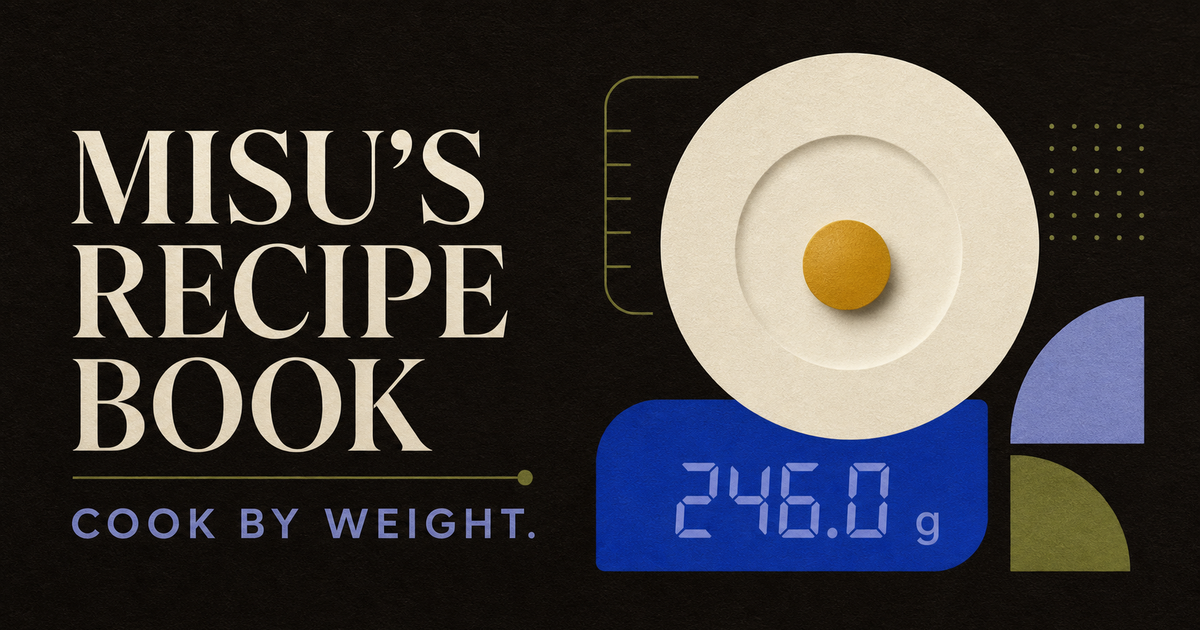
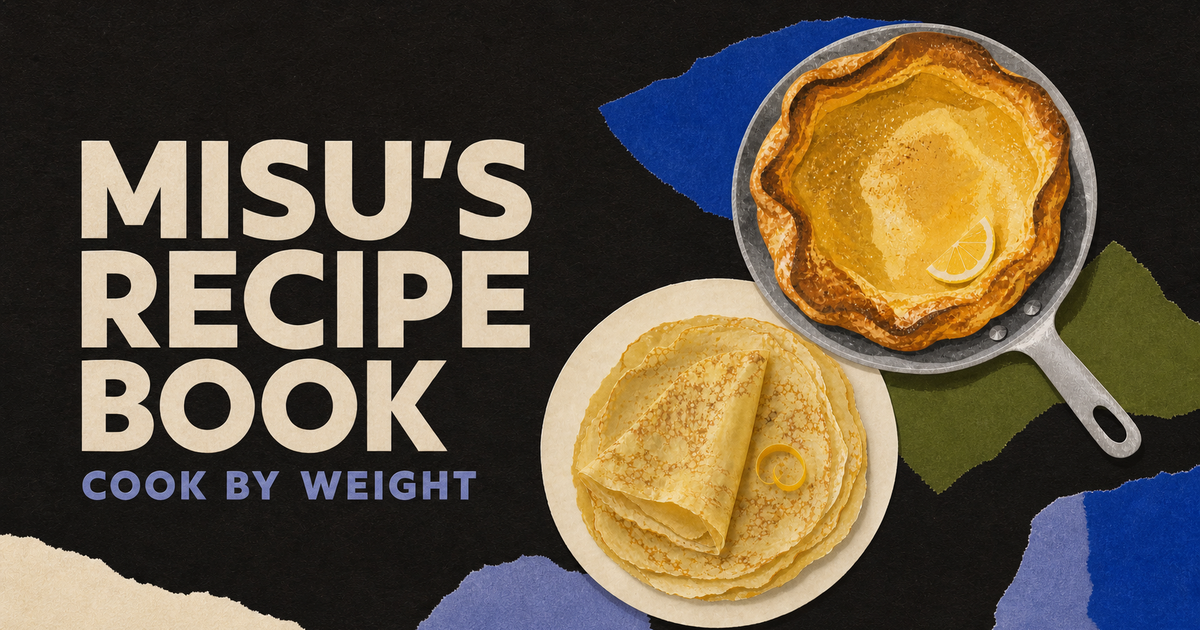
Add paper-collage recipe artwork

diff --git a/app/globals.css b/app/globals.css
@@ -271,10 +271,10 @@ input:focus-visible {
 .recipe-card {
   position: relative;
   display: grid;
-  grid-template-columns: 82px 1fr 28px;
+  grid-template-columns: 108px minmax(0, 1fr) 24px;
   gap: 16px;
   align-items: center;
-  min-height: 132px;
+  min-height: 144px;
   padding: 18px;
   overflow: hidden;
   border: 0;
@@ -295,45 +295,17 @@ input:focus-visible {
   background: var(--bone);
 }
 
-.recipe-mark {
+.recipe-card-image {
   position: relative;
-  display: grid;
-  place-items: center;
-  width: 82px;
-  height: 94px;
+  display: block;
+  width: 108px;
+  aspect-ratio: 3 / 2;
   overflow: hidden;
-  background: var(--accent-light);
-  color: var(--accent);
+  background: var(--warm-black);
 }
 
-.recipe-mark::before,
-.recipe-mark::after {
-  position: absolute;
-  content: "";
-  border: 1px solid currentColor;
-  border-radius: 50%;
-  opacity: 0.55;
-}
-
-.recipe-mark::before {
-  width: 58px;
-  height: 58px;
-}
-
-.recipe-mark::after {
-  width: 34px;
-  height: 34px;
-}
-
-.recipe-mark span {
-  position: relative;
-  z-index: 1;
-  padding: 4px;
-  background: var(--accent-light);
-  font-family: var(--font-display), var(--font-display-fallback);
-  font-size: 15px;
-  font-weight: 800;
-  letter-spacing: -0.04em;
+.recipe-card-image img {
+  object-fit: cover;
 }
 
 .tone-moss {
@@ -368,7 +340,8 @@ input:focus-visible {
   letter-spacing: 0.16em;
 }
 
-.recipe-card h2 {
+.recipe-card-title {
+  display: block;
   margin: 0;
   font-family: var(--font-display), var(--font-display-fallback);
   font-size: clamp(20px, 3vw, 27px);
@@ -448,6 +421,19 @@ input:focus-visible {
 .recipe-header .eyebrow {
   margin-bottom: 15px;
   color: var(--accent-light);
+}
+
+.recipe-hero-art {
+  position: relative;
+  width: 100%;
+  aspect-ratio: 3 / 2;
+  margin: 0;
+  overflow: hidden;
+  background: var(--warm-black-90);
+}
+
+.recipe-hero-art img {
+  object-fit: cover;
 }
 
 .recipe-meta {
@@ -733,7 +719,27 @@ input:focus-visible {
   }
 
   .recipe-card {
-    min-height: 168px;
+    grid-template-columns: 1fr;
+    grid-template-rows: auto 1fr;
+    gap: 0;
+    align-items: stretch;
+    min-height: 340px;
+    padding: 0;
+  }
+
+  .recipe-card-image {
+    width: 100%;
+  }
+
+  .recipe-card-copy {
+    display: block;
+    padding: 20px 22px 52px;
+  }
+
+  .card-arrow {
+    position: absolute;
+    right: 22px;
+    bottom: 20px;
   }
 
   .recipe-meta {
@@ -747,19 +753,16 @@ input:focus-visible {
   }
 
   .recipe-card {
-    grid-template-columns: 92px 1fr 28px;
-    min-height: 184px;
-    padding: 22px;
-  }
-
-  .recipe-mark {
-    width: 92px;
-    height: 116px;
+    min-height: 360px;
   }
 
   .recipe-header {
     grid-template-columns: minmax(0, 1.5fr) minmax(360px, 0.7fr);
     align-items: end;
+  }
+
+  .recipe-meta {
+    grid-column: 1 / -1;
   }
 
   .recipe-body {
@@ -787,6 +790,10 @@ input:focus-visible {
     align-items: end;
   }
 
+  .recipe-meta {
+    grid-column: 1 / -1;
+  }
+
   .recipe-header h1 {
     font-size: clamp(40px, 7vw, 70px);
   }
@@ -808,14 +815,13 @@ input:focus-visible {
   }
 
   .recipe-card {
-    grid-template-columns: 70px 1fr 20px;
+    grid-template-columns: 84px minmax(0, 1fr) 20px;
     gap: 13px;
     padding: 14px;
   }
 
-  .recipe-mark {
-    width: 70px;
-    height: 82px;
+  .recipe-card-image {
+    width: 84px;
   }
 
   .ingredient-row {

diff --git a/app/recipe-book.tsx b/app/recipe-book.tsx
@@ -1,5 +1,6 @@
 "use client";
 
+import Image from "next/image";
 import { useEffect, useMemo, useState } from "react";
 import {
   categories,
@@ -187,12 +188,21 @@ function RecipeDetail({
 
       <article className="recipe-shell">
         <header className="recipe-header">
-          <div>
+          <div className="recipe-title-block">
             <p className="eyebrow">
               {recipe.category} · {recipe.tags.join(" · ")}
             </p>
             <h1>{recipe.title}</h1>
           </div>
+          <figure className="recipe-hero-art">
+            <Image
+              src={`/recipes/${recipe.id}.webp`}
+              alt={`Paper-collage illustration of ${recipe.title}`}
+              fill
+              priority
+              sizes="(max-width: 979px) 100vw, 44vw"
+            />
+          </figure>
           <div className="recipe-meta">
             {metaItems(recipe).map((item) => (
               <div className="recipe-meta-item" key={item.label}>
@@ -384,14 +394,19 @@ function RecipeLibrary({ onSelect }: { onSelect: (id: string) => void }) {
                 type="button"
                 onClick={() => onSelect(recipe.id)}
               >
-                <span className="recipe-mark" aria-hidden="true">
-                  <span>{recipe.mark}</span>
+                <span className="recipe-card-image" aria-hidden="true">
+                  <Image
+                    src={`/recipes/${recipe.id}.webp`}
+                    alt=""
+                    fill
+                    sizes="(max-width: 679px) 108px, (max-width: 979px) 50vw, 33vw"
+                  />
                 </span>
-                <span>
+                <span className="recipe-card-copy">
                   <span className="recipe-index">
                     {String(index + 1).padStart(2, "0")} · {recipe.category}
                   </span>
-                  <h2>{recipe.title}</h2>
+                  <span className="recipe-card-title">{recipe.title}</span>
                   <span className="recipe-card-tags">
                     {recipe.tags.slice(0, 3).map((tag) => (
                       <span className="recipe-tag" key={tag}>

diff --git a/public/sw.js b/public/sw.js
@@ -1,4 +1,4 @@
-const CACHE_NAME = "misus-recipes-v2";
+const CACHE_NAME = "misus-recipes-v3";
 const APP_SHELL = [
   "/",
   "/manifest.webmanifest",

diff --git a/scripts/optimize-recipe-images.py b/scripts/optimize-recipe-images.py
@@ -1,0 +1,23 @@
+from pathlib import Path
+
+from PIL import Image
+
+
+ROOT = Path(__file__).resolve().parents[1]
+SOURCE = ROOT / "concepts" / "final-png"
+OUTPUT = ROOT / "public" / "recipes"
+
+OUTPUT.mkdir(parents=True, exist_ok=True)
+
+for source_path in sorted(SOURCE.glob("*.png")):
+    with Image.open(source_path) as image:
+        optimized = image.convert("RGB").resize(
+            (1200, 800),
+            Image.Resampling.LANCZOS,
+        )
+        optimized.save(
+            OUTPUT / f"{source_path.stem}.webp",
+            "WEBP",
+            quality=84,
+            method=6,
+        )

diff --git a/README.md b/README.md
@@ -9,6 +9,7 @@ The app keeps the source recipes concise while adding:
 - whole-egg, egg-white, weight, or batch scaling;
 - rational arithmetic so repeating values remain explicit;
 - a separate 0.1g Fellow Tally target;
+- original paper-collage artwork for every recipe;
 - offline access through a service worker.
 
 ## Local development
